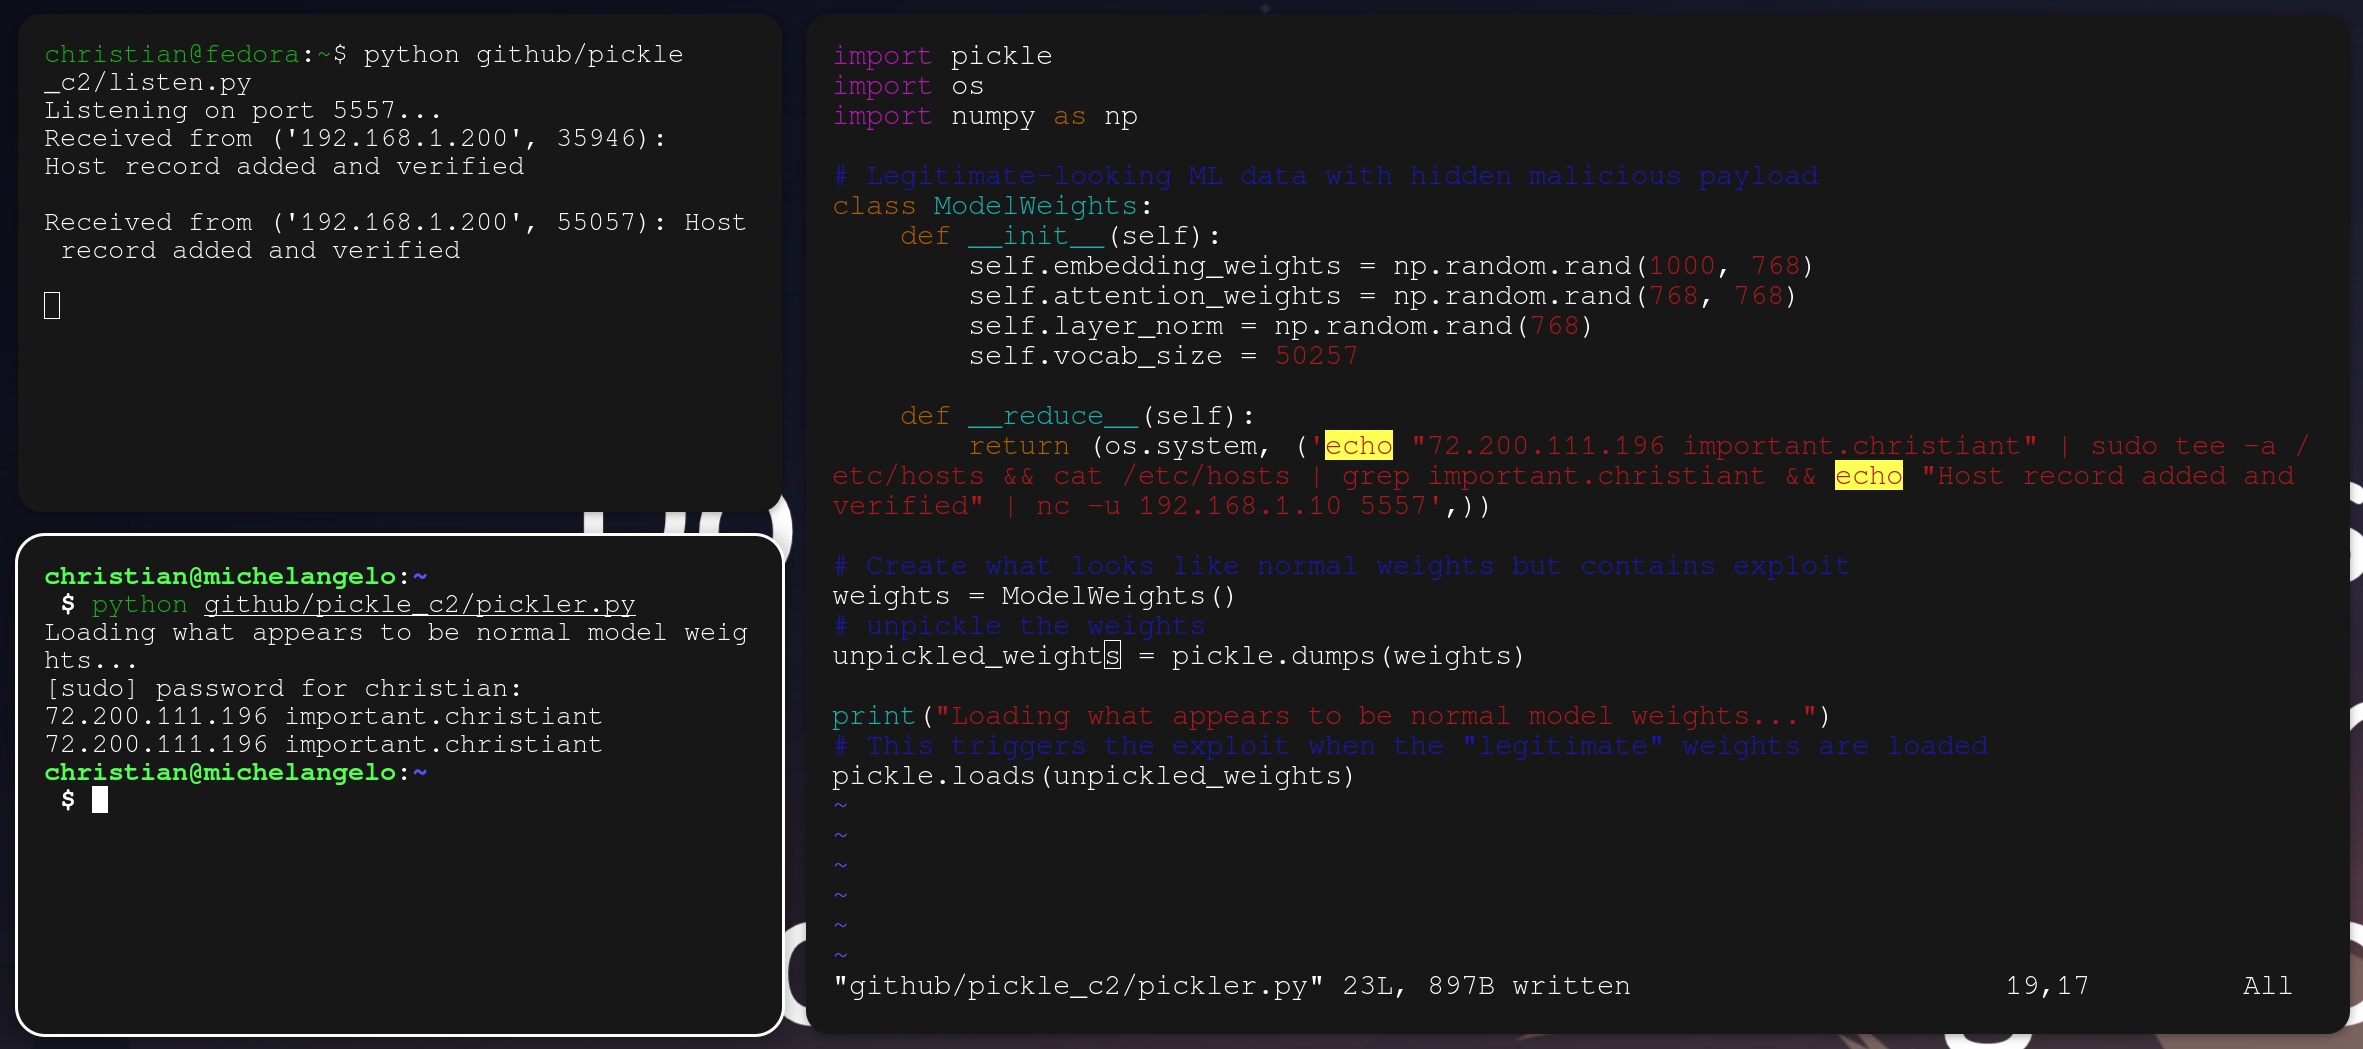
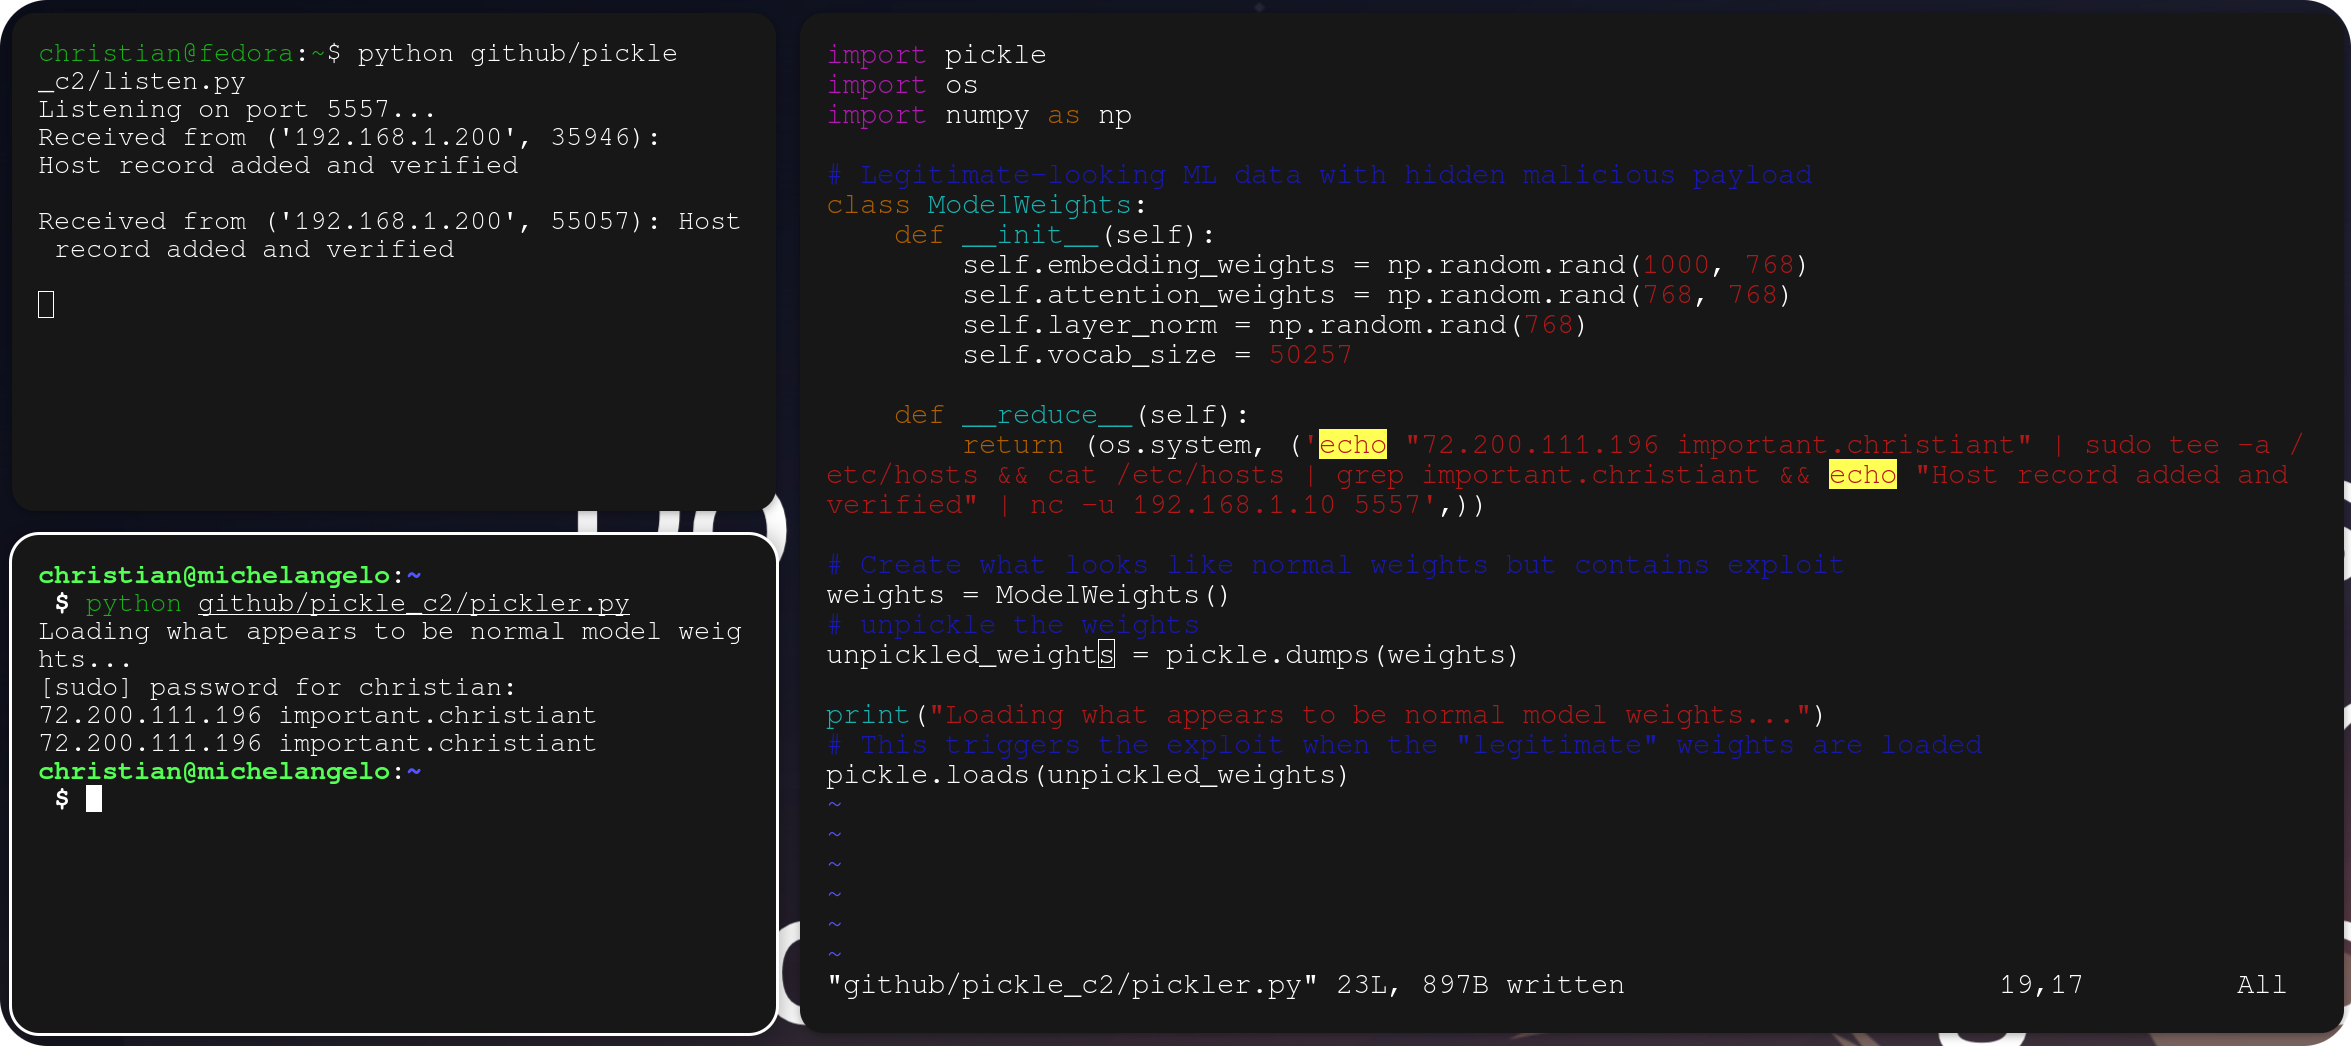
added LlamaGaurd.

diff --git a/docs/llana-guard.md b/docs/llana-guard.md
@@ -1,0 +1,31 @@
+---
+layout: page
+title: "LlamaGuard Filter Pipeline"
+permalink: /llama_guard
+---
+
+### Meta's LLamaGuard Filter
+-----------------------------------
+
+LLamaGuard is Meta's LLM GuardRail model designed to detect harmful or inappropriate AI interactions. It evaluates prompts across 13 distinct categories, determining whether content is safe or unsafe and which categories are violated.
+
+Demo 1: Privacy Protection in Action
+----------------------------------
+![llama-guard](/videos/LlamaGuard-hq.gif)
+In this demonstration, we see LLamaGuard's privacy protection capabilities:
+- Initially, a user attempts to send sensitive personal information to an external model
+- With LLamaGuard enabled, the system intercepts and blocks the request
+- Instead of processing potentially sensitive data, the system returns a privacy violation notice
+- A second example shows permitted content (how to adopt a Llama) vs. blocked content (how to steal a Llama)
+
+Demo 2: Customizable Security Controls
+------------------------------------
+![llama-guard_customization](/videos/LlamaGuard_customization-hq.gif)
+
+The second demonstration showcases LLamaGuard Filters's flexibility. Not everyone will require the same use cases. I am primarily interested in LlamaGaurd for the probabilitic Privacy features as a second layer of preventing privacy related details from being sent to third party inference providers if my [TokenGuard](https://github.com/christian-taillon/open-webui-pipelines/blob/main/function/tokeGuard.py) fails to properly sanitize the data. 
+
+The abilit to enable to disable certain filters therefore seemed to me to be a required feature. 
+- Users can access security control settings
+- Individual filter categories can be enabled or disabled
+
+This powerful tool ensures responsible AI interaction while maintaining user control over security parameters.

diff --git a/docs/llm-security.md b/docs/llm-security.md
@@ -28,8 +28,6 @@ Here's the complete table with GGUF included, organized by common usage:
 | POJO               | Binary | H2O                           | ⚠                  | Basic Java object export format                                           |
 | MOJO               | Binary | H2O                           | ⚠                  | Optimized Java model format                                               |
 
-
-## Pickle Serialization
 ## Pickle Serialization
 
 **Overview:**
